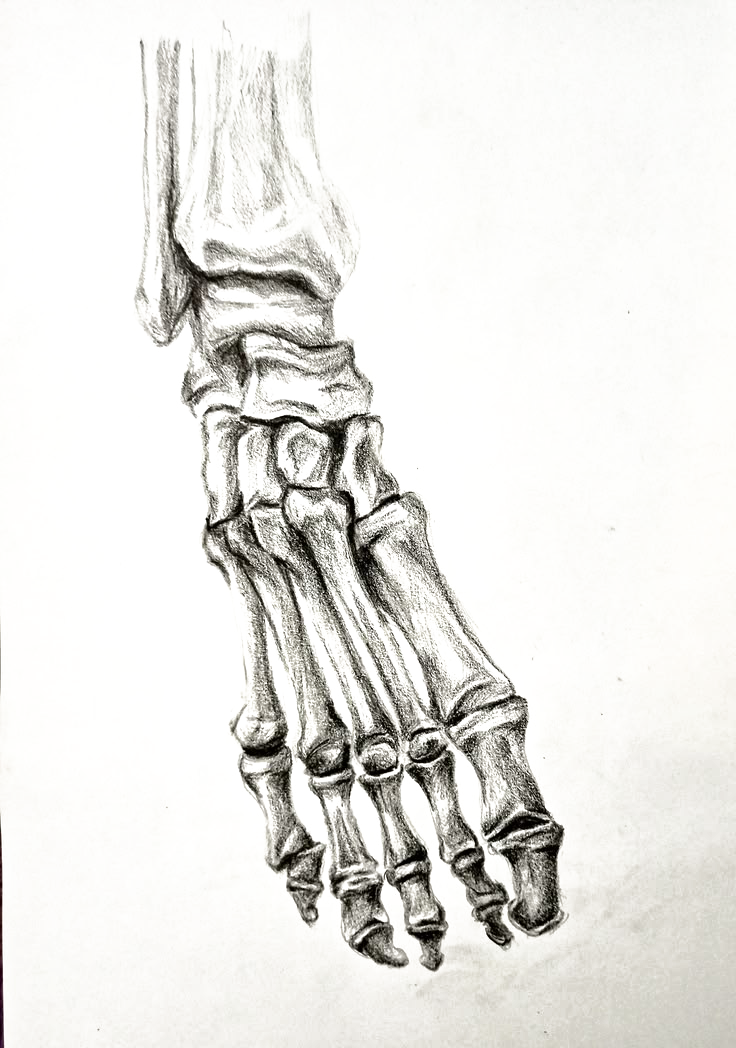
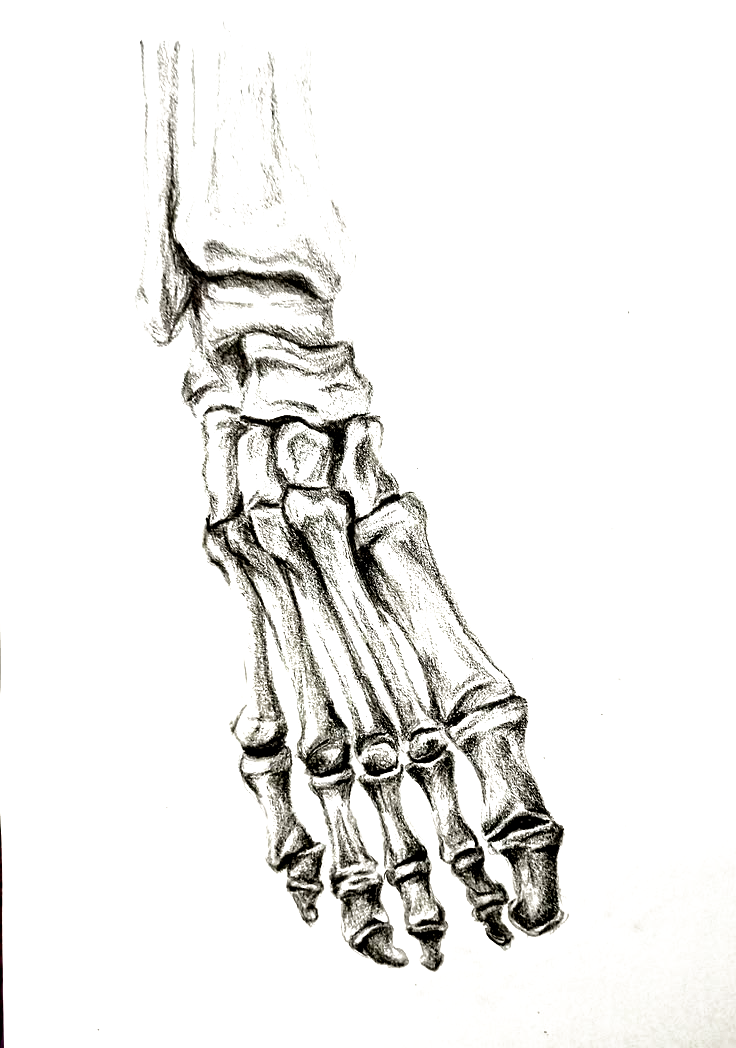
AB-147: fix(frontend): bake filter effects into PNGs, drop mix-blend-mode and filter from CSS
Removes mix-blend-mode and filter (grayscale/brightness/contrast) from
all four decorative images (hand x2, foot, skull) entirely. The
grayscale/brightness/contrast tint is now baked into each PNG's pixel
data directly, and transparency (also pixel-baked, from AB-147's
earlier commit) already handles the fade into the cream background
without needing multiply blending. Only mask-image and opacity remain
in CSS for these elements — both well-supported, simple compositing
operations — removing the combination of properties implicated in
WebKit's blend-mode rendering bug.

Changed region(s): [[0.1875, 0.0305, 1.0, 1.0], [0.0, 0.8244, 0.0312, 1.0]]

diff --git a/app/frontend/src/app/page.module.css b/app/frontend/src/app/page.module.css
@@ -23,8 +23,6 @@
   background-size: contain;
   background-repeat: no-repeat;
   background-position: right bottom;
-  filter: grayscale(1) brightness(1.15) contrast(1.25);
-  mix-blend-mode: multiply;
   opacity: 0.55;
   mask-image: radial-gradient(
     ellipse 80% 95% at 75% 70%,
@@ -52,8 +50,6 @@
   background-position: bottom left;
   transform: scale(1.4);
   transform-origin: bottom left;
-  filter: grayscale(1) brightness(1.15) contrast(1.2);
-  mix-blend-mode: multiply;
   opacity: 0.6;
   mask-image: radial-gradient(
     ellipse 85% 95% at 25% 75%,
@@ -98,8 +94,6 @@
   background-position: center;
   transform: scaleX(-1);
   will-change: transform, opacity;
-  filter: grayscale(1) brightness(1.18) contrast(1.3);
-  mix-blend-mode: multiply;
   opacity: 0.6;
   mask-image: radial-gradient(
     ellipse 85% 85% at 78% 28%,
@@ -126,8 +120,7 @@
   background-repeat: no-repeat;
   background-position: top center;
   will-change: opacity;
-  filter: grayscale(1) brightness(1.18) contrast(1.4);
-  mix-blend-mode: multiply;
+  opacity: 0.55;
   mask-image: linear-gradient(
       0deg,
       transparent 0%,
@@ -145,6 +138,5 @@
     ),
     radial-gradient(ellipse 65% 100% at 38% 15%, #000 55%, transparent 95%);
   mask-composite: intersect;
-  -webkit-mask-composite: source-in;
   pointer-events: none;
 }
